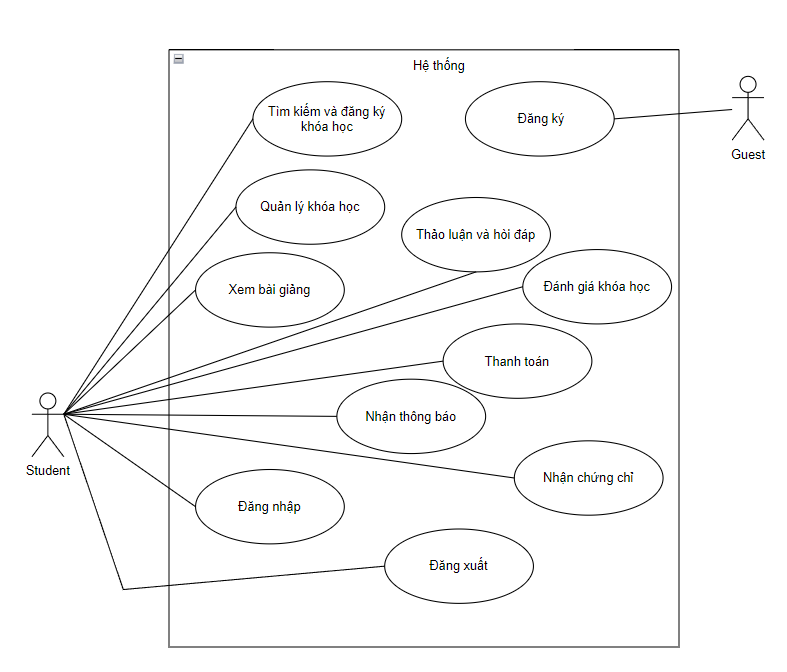
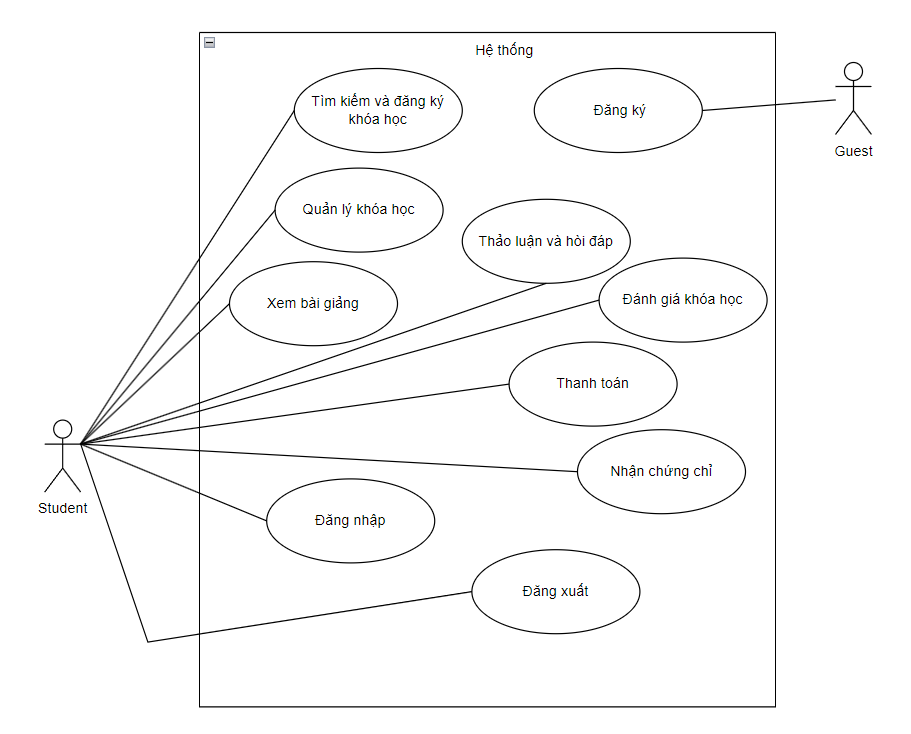
Bai tap ve nha

diff --git a/README.md b/README.md
@@ -1,45 +1,130 @@
 # Mô tả usecase và hình giao diện
 
+## Mục lục
+- [Use case](#use-case)
+- [1. Guest (Khách vãng lai)](#1-guest-khách-vãng-lai)
+    - [1.1. Đăng ký tài khoản](#11-đăng-ký-tài-khoản)
+- [2. Student (Học viên)](#2-student-học-viên)
+    - [2.1. Đăng nhập](#21-đăng-nhập)
+    - [2.2. Tìm kiếm & đăng ký khóa học](#22-tìm-kiếm--đăng-ký-khóa-học)
+    - [2.3. Quản lý khóa học](#23-quản-lý-khóa-học)
+    - [2.4. Xem bài giảng](#24-xem-bài-giảng)
+    - [2.5. Thảo luận & hỏi đáp](#25-thảo-luận--hỏi-đáp)
+    - [2.6. Đánh giá khóa học](#26-đánh-giá-khóa-học)
+    - [2.7. Nhận chứng chỉ](#27-nhận-chứng-chỉ)
+    - [2.8. Thanh toán](#28-thanh-toán)
+
 ## Use case
 ![Sơ đồ Use Case](images/usecase_diagram.png)
 
 ## 1. Guest (Khách vãng lai)
 
-### 1.1. Đăng ký tài khoản (\*)
+### 1.1. Đăng ký tài khoản
 
 - **Mô tả:** Khách vãng lai có thể tạo tài khoản để trở thành học viên. Quá trình đăng ký yêu cầu cung cấp thông tin cá nhân và xác thực qua email.
 - **Mục đích:** Tạo điều kiện cho người dùng mới có thể truy cập và sử dụng các chức năng đầy đủ của hệ thống học tập.
 - **Giao diện Đăng ký tài khoản:**
+  
+<div style="text-align: center;">
+  <img src="images/register.png" alt="Giao diện Đăng ký tài khoản">
+</div>
+
+- **Giao diện kích hoạt tài khoản với OTP:**
+
+<div style="text-align: center;">
+  <img src="images/otp_validation.png" alt="">
+</div>
 
 
 ## 2. Student (Học viên)
 
-### 2.1. Đăng nhập (\*)
+### 2.1. Đăng nhập
 
 - **Mô tả:** Học viên đăng nhập vào hệ thống bằng tài khoản đã đăng ký. Sau khi đăng nhập, học viên có thể chỉnh sửa thông tin cá nhân như tên, email, số điện thoại, mật khẩu.
 - **Mục đích:** Cho phép học viên truy cập vào hệ thống và cập nhật thông tin cá nhân của mình.
 - **Giao diện Đăng nhập:**
 
+<div style="text-align: center;">
+  <img src="images/login.png" alt="">
+</div>
 
-### 2.2. Tìm kiếm & đăng ký khóa học (\*)
+- **Giao diện xem tài khoản:**
+
+<div style="text-align: center;">
+  <img src="images/account.png" alt="">
+</div>
+
+- **Giao diện cập nhật thông tin cá nhân:**
+
+<div style="text-align: center;">
+  <img src="images/update_profile.png" alt="">
+</div>
+
+- **Giao diện thay đổi mặt khẩu:**
+
+<div style="text-align: center;">
+  <img src="images/change_password.png" alt="">
+</div>
+
+### 2.2. Tìm kiếm & đăng ký khóa học
 
 - **Mô tả:** Học viên có thể tìm kiếm khóa học bằng cách sử dụng danh mục khóa học hoặc từ khóa tìm kiếm. Sau khi tìm được khóa học phù hợp, học viên có thể đăng ký tham gia.
 - **Mục đích:** Hỗ trợ học viên trong việc tìm kiếm và đăng ký các khóa học họ quan tâm.
 - **Giao diện Đăng ký khóa học:**
 
-### 2.3. Quản lý khóa học (\*)
+<div style="text-align: center;">
+  <img src="images/course_detail_1.png">
+</div>
+
+<div style="text-align: center;">
+  <img src="images/course_detail_2.png">
+</div>
+
+<div style="text-align: center;">
+  <img src="images/course_detail_3.png">
+</div>
+
+<div style="text-align: center;">
+  <img src="images/course_detail_4_review.png">
+</div>
+
+- **Giao diện lọc/tìm kiếm khóa học:**
+
+<div style="text-align: center;">
+  <img src="images/search.png">
+</div>
+
+<div style="text-align: center;">
+  <img src="images/search_filter.png">
+</div>
+
+### 2.3. Quản lý khóa học
 
 - **Mô tả:** Học viên có thể xem danh sách các khóa học đã đăng ký, theo dõi tiến độ học tập và tình trạng hoàn thành của từng khóa học.
 - **Mục đích:** Giúp học viên quản lý và theo dõi quá trình học tập của mình.
 - **Giao diện Quản lý khóa học:**
 
-### 2.4. Xem bài giảng (\*)
+<div style="text-align: center;">
+  <img src="images/search_filter.png" alt="">
+</div>
+
+- **Giao diện xem khóa học được yêu thích:**
+
+<div style="text-align: center;">
+  <img src="images/wish_list.png" alt="">
+</div>
+
+### 2.4. Xem bài giảng
 
 - **Mô tả:** Học viên truy cập vào các bài giảng đã đăng ký, bao gồm video, tài liệu học và có thể làm các bài kiểm tra trực tuyến.
 - **Mục đích:** Cung cấp nội dung học tập và kiểm tra cho học viên trong các khóa học.
 - **Giao diện Xem bài giảng:**
 
-### 2.5. Thảo luận & hỏi đáp (\*)
+<div style="text-align: center;">
+  <img src="images/course_management.png" alt="">
+</div>
+
+### 2.5. Thảo luận & hỏi đáp
 
 - **Mô tả:** Học viên tham gia các diễn đàn, nhóm thảo luận trong mỗi khóa học để đặt câu hỏi, thảo luận và nhận phản hồi từ giảng viên hoặc các học viên khác.
 - **Mục đích:** Tạo môi trường học tập cộng đồng, giúp học viên dễ dàng trao đổi kiến thức.
@@ -51,21 +136,18 @@
 - **Mục đích:** Giúp cải thiện chất lượng khóa học dựa trên phản hồi của học viên.
 - **Giao diện Đánh giá khóa học:**
 
+<div style="text-align: center;">
+  <img src="images/course_detail_4_review.png">
+</div>
+
 ### 2.7. Nhận chứng chỉ
 
 - **Mô tả:** Sau khi hoàn thành khóa học, học viên có thể nhận chứng chỉ dưới dạng điện tử hoặc in ấn (nếu có).
 - **Mục đích:** Chứng nhận kết quả học tập của học viên sau khi hoàn thành khóa học.
-- **Giao diện Nhận chứng chỉ:**
+- **Giao diện Nhận chứng chỉ:** ...
 
-### 2.8. Thanh toán (\*)
+### 2.8. Thanh toán
 
 - **Mô tả:** Học viên có thể quản lý các phương thức thanh toán, xem lịch sử giao dịch và hóa đơn liên quan đến các khóa học đã đăng ký.
 - **Mục đích:** Hỗ trợ học viên trong việc thanh toán các khóa học và quản lý thông tin tài chính.
-- **Giao diện Thanh toán:**
-
-### 2.9. Nhận thông báo
-
-- **Mô tả:** Học viên sẽ nhận thông báo khi có bài giảng mới, thông báo từ giảng viên qua hệ thống website và email.
-- **Mục đích:** Cập nhật thông tin liên quan đến các khóa học mà học viên tham gia.
-- **Giao diện Thông báo:**
-
+- **Giao diện Thanh toán:** ...
